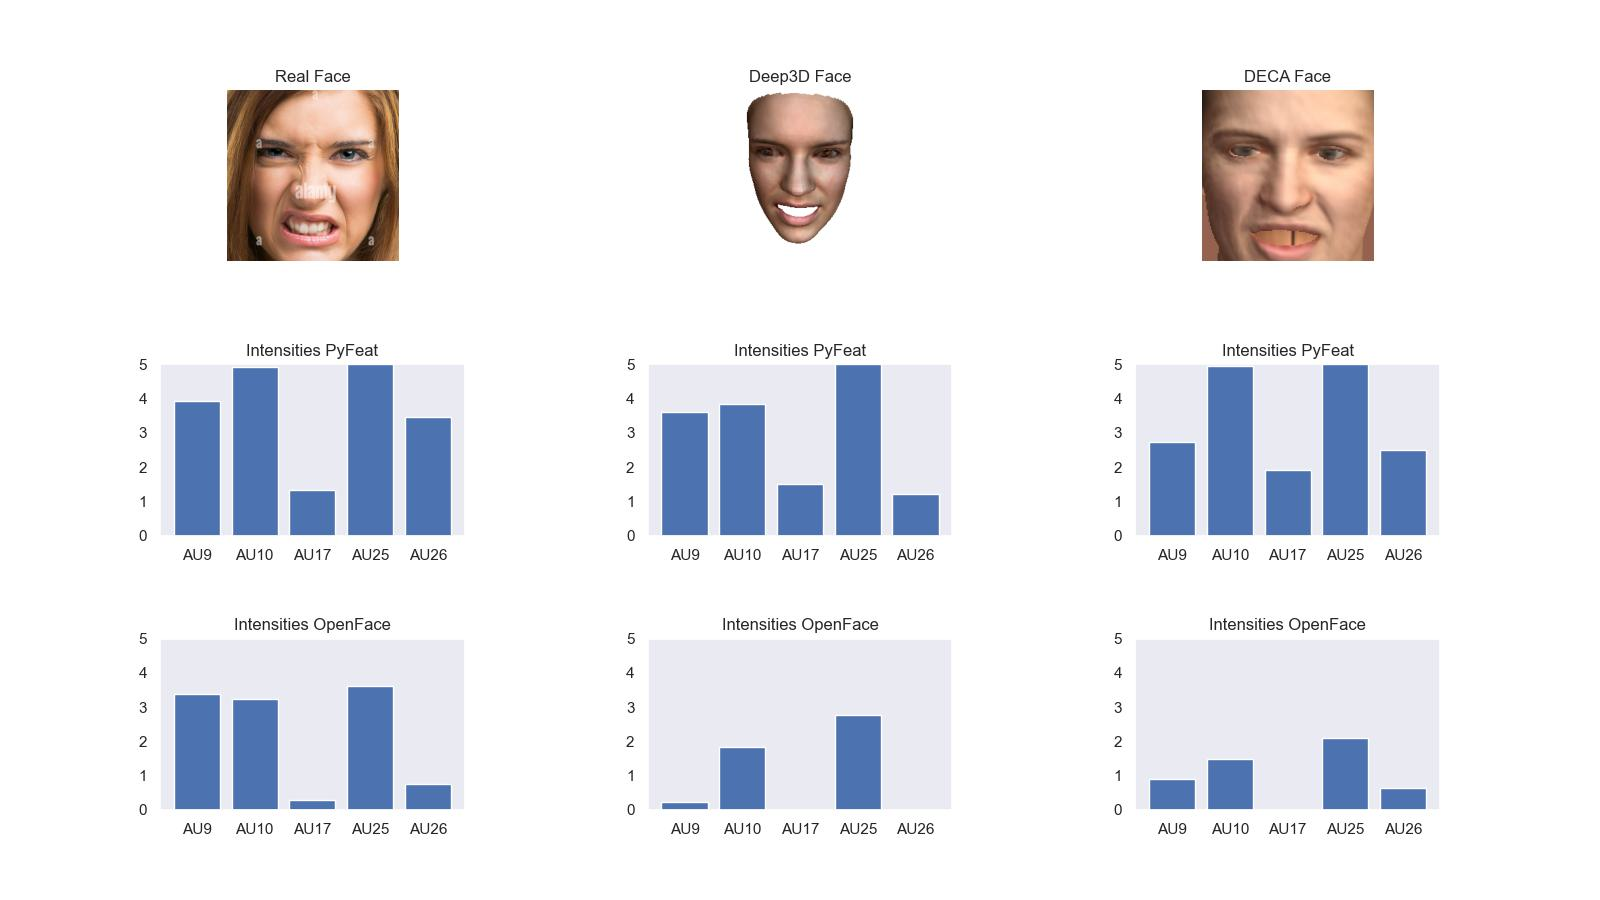
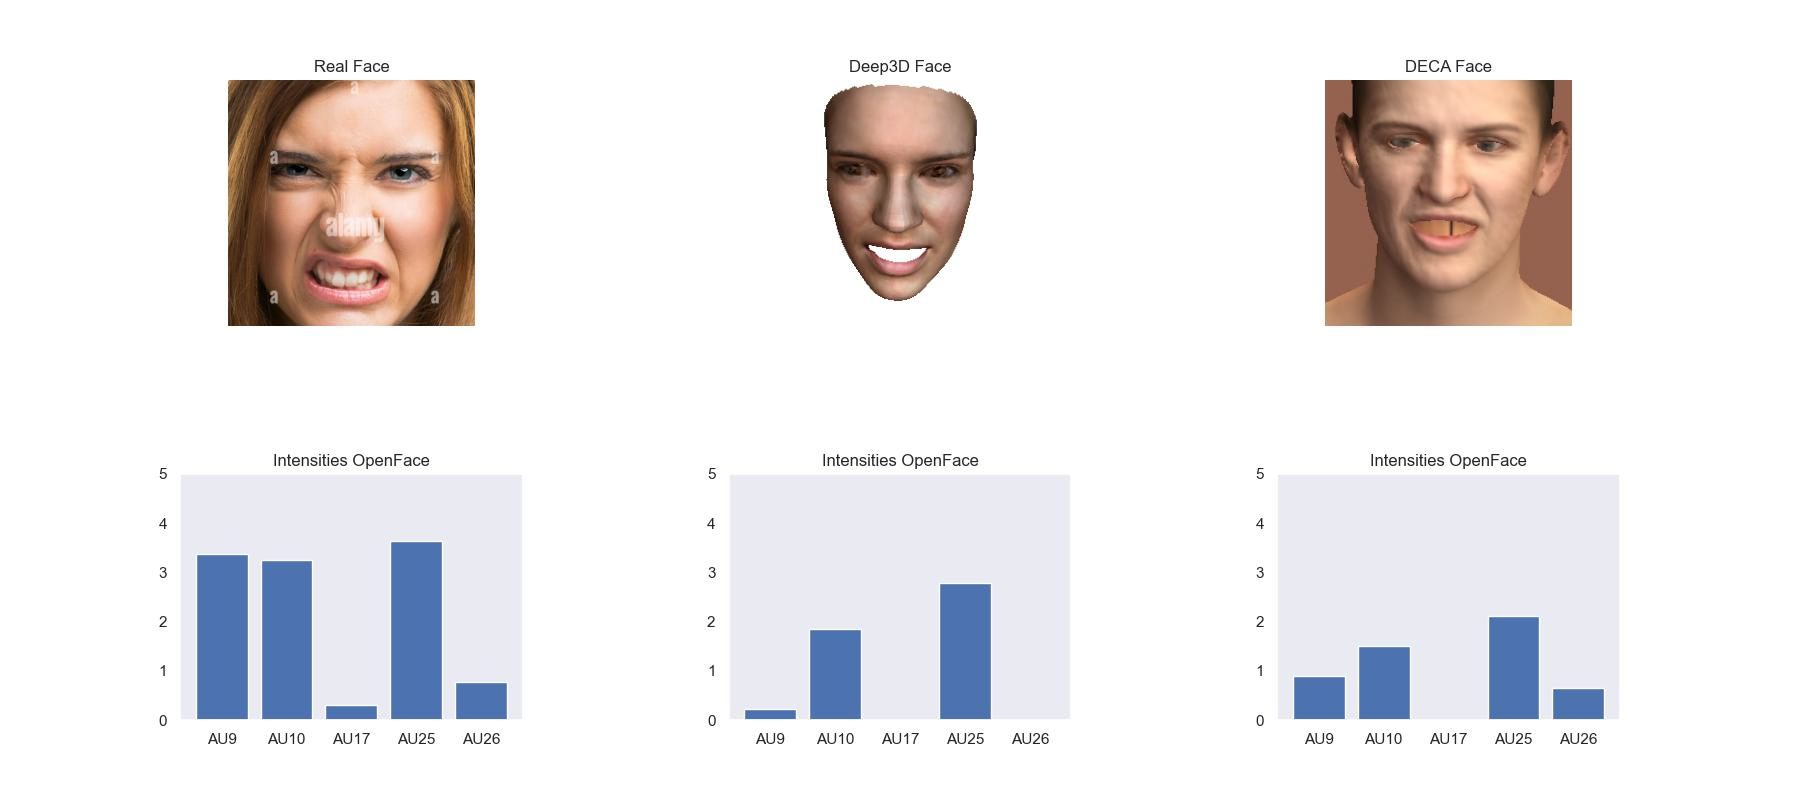
testes

diff --git a/runAnalysis.py b/runAnalysis.py
@@ -75,7 +75,7 @@ def getInfoOpen(o1, o2, o3, emo):
     laus = list(laus[0])                
     lblAus = list(o1)
         
-    getEmo = emo
+    getEmo = 2
     
     # print(ausEmo[getEmo])                
     ret1.append(ausEmo[getEmo])
@@ -107,7 +107,7 @@ def getInfoOpen(o1, o2, o3, emo):
     laus = list(laus[0])                
     lblAus = list(o2)
         
-    getEmo = emo
+    getEmo = 2
     
     # print(ausEmo[getEmo])                
     ret1.append(ausEmo[getEmo])
@@ -139,7 +139,7 @@ def getInfoOpen(o1, o2, o3, emo):
     laus = list(laus[0])                
     lblAus = list(o3)
         
-    getEmo = emo
+    getEmo = 2
     
     # print(ausEmo[getEmo])                
     ret1.append(ausEmo[getEmo])
@@ -191,7 +191,7 @@ def getInfos(p1, emo):
     x_norm = pre.MinMaxScaler(feature_range=(0, 5)).fit_transform(x)
 
     maximo = max(lemo)
-    getEmo = emo
+    getEmo = 2
                 
     ret1.append(ausEmo[getEmo])
     
@@ -234,59 +234,60 @@ def runPlots(r1, r2, r3, retorno2):
     r = cv2.cvtColor(r, cv2.COLOR_BGR2RGB)
     
     ## Crop Real Face    
-    retDeca = cropImage(f3, 'deca_pos')
+    # retDeca = cropImage(f3, 'deca_pos')
+    retDeca = cv2.imread('out/deca_pos/' + f3, cv2.COLOR_BGR2RGB)
     retDeca = cv2.cvtColor(retDeca, cv2.COLOR_BGR2RGB)
     
-    plt.figure(figsize=(16,9))
+    plt.figure(figsize=(18,8))
         
     ## =========================================================            
-    plt.subplot(3, 3, 1)
+    plt.subplot(2, 3, 1)
     plt.title('Real Face')
     plt.imshow(r)
     plt.axis('off')
 
     ## =========================================================
-    plt.subplot(3, 3, 2)
+    plt.subplot(2, 3, 2)
     plt.title('Deep3D Face')
     plt.imshow(img)
     plt.axis('off')
     
     ## =========================================================
-    plt.subplot(3, 3, 3)
+    plt.subplot(2, 3, 3)
     plt.title('DECA Face')
     plt.imshow(retDeca)
     plt.axis('off')
        
     ## =========================================================    
-    label1 = [str("AU") + str(x) for x in r1[0][0]]
-    valor1 = r1[1][0]
+    # label1 = [str("AU") + str(x) for x in r1[0][0]]
+    # valor1 = r1[1][0]
 
-    plt.subplot(3, 3, 4)
-    plt.title('Intensities PyFeat')
-    plt.ylim([0,5])
-    plt.bar(label1, valor1)
+    # plt.subplot(3, 3, 4)
+    # plt.title('Intensities PyFeat')
+    # plt.ylim([0,5])
+    # plt.bar(label1, valor1)
 
-    label2 = [str("AU") + str(x) for x in r2[0][0]]
-    valor2 = r2[1][0]
+    # label2 = [str("AU") + str(x) for x in r2[0][0]]
+    # valor2 = r2[1][0]
     
-    plt.subplot(3, 3, 5)
-    plt.title('Intensities PyFeat')
-    plt.ylim([0,5])
-    plt.bar(label2, valor2)
+    # plt.subplot(3, 3, 5)
+    # plt.title('Intensities PyFeat')
+    # plt.ylim([0,5])
+    # plt.bar(label2, valor2)
     
-    label3 = [str("AU") + str(x) for x in r3[0][0]]
-    valor3 = r3[1][0]
+    # label3 = [str("AU") + str(x) for x in r3[0][0]]
+    # valor3 = r3[1][0]
     
-    plt.subplot(3, 3, 6)
-    plt.title('Intensities PyFeat')
-    plt.ylim([0,5])
-    plt.bar(label3, valor3)
+    # plt.subplot(3, 3, 6)
+    # plt.title('Intensities PyFeat')
+    # plt.ylim([0,5])
+    # plt.bar(label3, valor3)
     
     ## =========================================================    
     labelOpen1 = [str("AU") + str(x) for x in retorno2[0][0]]
     valorOpen1 = retorno2[1][0]
 
-    plt.subplot(3, 3, 7)
+    plt.subplot(2, 3, 4)
     plt.title('Intensities OpenFace')
     plt.ylim([0,5])
     plt.bar(labelOpen1, valorOpen1)
@@ -295,7 +296,7 @@ def runPlots(r1, r2, r3, retorno2):
     labelOpen2 = [str("AU") + str(x) for x in retorno2[0][1]]
     valorOpen2 = retorno2[1][1]
     
-    plt.subplot(3, 3, 8)
+    plt.subplot(2, 3, 5)
     plt.title('Intensities OpenFace')
     plt.ylim([0,5])
     plt.bar(labelOpen2, valorOpen2)
@@ -304,7 +305,7 @@ def runPlots(r1, r2, r3, retorno2):
     labelOpen3 = [str("AU") + str(x) for x in retorno2[0][2]]
     valorOpen3 = retorno2[1][2]
     
-    plt.subplot(3, 3, 9)
+    plt.subplot(2, 3, 6)
     plt.title('Intensities OpenFace')
     plt.ylim([0,5])
     plt.bar(labelOpen3, valorOpen3)
@@ -340,7 +341,7 @@ if __name__ == '__main__':
     
     for i, j in enumerate(realFiles):
         
-        if 'surprise2.jpg' in j:
+        if 'fear1.jpg' in j:
     
             f1 = j
             f2 = deep3dFiles[i]

diff --git a/runAnalysis2.py b/runAnalysis2.py
@@ -1,0 +1,106 @@
+
+import cv2
+import os 
+import time
+
+import matplotlib.pyplot as plt
+import numpy as np
+import seaborn as sns
+import pandas as pd
+
+import seaborn as sns
+from sklearn import preprocessing as pre
+
+def chartPlot(ret, nome, legenda):
+
+    sns.set_theme()
+    # sns.set_style("dark")
+
+    inflationAndGrowth = {
+        "Deepd3D": [ -i for i in ret[0] ],
+        "Deca": [ -i for i in ret[1] ]
+    };
+
+    index  = [str("AU") + str(x) for x in legenda]
+
+    dataFrame = pd.DataFrame(data = inflationAndGrowth);
+
+    dataFrame.index = index;
+
+    dataFrame.plot.barh(rot=15, title="Intensity differences between Real vs Deep3D and Deca");
+
+    # plt.show(block=True);
+    
+    plt.savefig('output/results/dif_' + nome + '.jpg')
+    
+def getData(name):
+    
+    pathOpen = 'out/openface/'
+    
+    pathOpenReal = pathOpen + 'real/' + name + '/' + name + '.csv'
+    pathOpenDeep = pathOpen + 'deep3d/' + name + '_mesh/' + name + '_mesh.csv'
+    pathOpenDeca = pathOpen + 'deca/' + name + '_rendered_images/' + name + '_rendered_images.csv'
+    
+    arq1 = pd.read_csv(pathOpenReal)
+    arq2 = pd.read_csv(pathOpenDeep)
+    arq3 = pd.read_csv(pathOpenDeca)
+            
+    val1 = arq1.iloc[:, 676:693].values
+    val2 = arq2.iloc[:, 676:693].values
+    val3 = arq3.iloc[:, 676:693].values
+    
+    return val1, val2, val3    
+
+def calculate(ret, indice):
+    
+    lista1 = list(ret[0][0])    
+    lista2 = list(ret[1][0])
+    lista3 = list(ret[2][0])
+    
+    result1 = []    
+    for i in range(len(lista1)):
+        result1.append(lista1[i] - lista2[i])
+        
+    result2 = []    
+    for i in range(len(lista1)):
+        result2.append(lista1[i] - lista3[i])
+        
+    tmp1 = []
+    for ind in indice:
+        tmp1.append(result1[ind])
+        
+    tmp2 = []
+    for ind in indice:
+        tmp2.append(result2[ind])
+        
+    # print('result deep3', result1)
+    # print('result deca', result2)
+    
+    return tmp1, tmp2
+    
+if __name__ == '__main__': 
+    
+    nome = 'sad2'
+    r = getData(nome)
+    
+    labelEmo = ['anger','disgust', 'fear','happiness','sadness','surprise']
+    
+    ausEmo = [
+        [4, 5, 7, 10, 17, 23, 25, 26],
+        [9, 10, 17, 25, 26],
+        [1, 2, 4, 5, 20, 25, 26],
+        [6, 12],
+        [1, 4, 15, 17],
+        [1, 2, 5, 26],
+    ]
+    
+    aus = [1, 2, 4, 5, 6, 7, 9, 10, 12, 14, 15, 17, 20, 23, 25, 26, 28, 45]
+    
+    indice = []
+    for emo in ausEmo[5]:
+        ind = aus.index(emo)
+        indice.append(ind)
+        
+    ret = calculate(r, indice)
+    
+    chartPlot(ret, nome, ausEmo[5])
